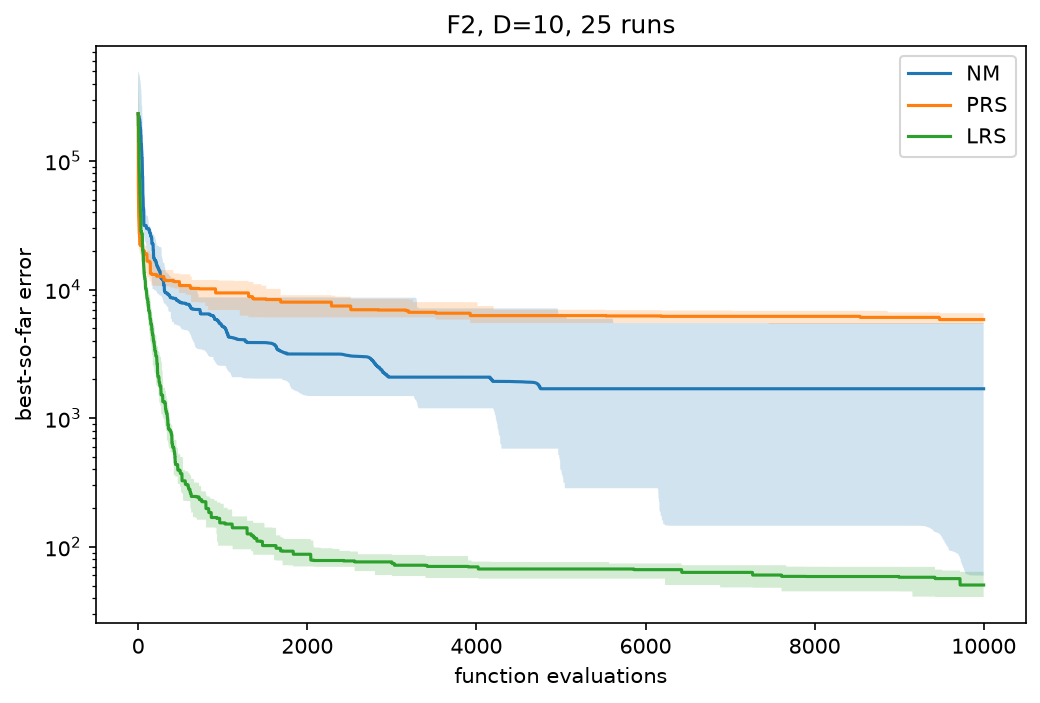
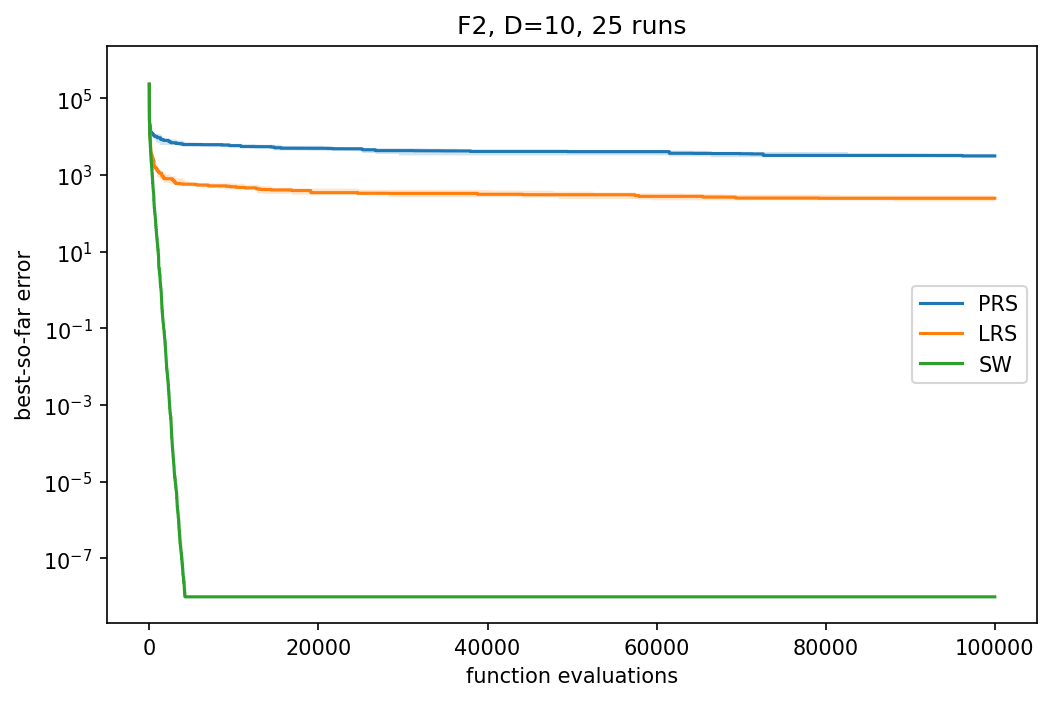
Task 4.2, generate converge image

diff --git a/plot_conv.py b/plot_conv.py
@@ -4,10 +4,10 @@ from cec05 import make_cec05
 
 D, fname = 10, 'F2'           # the function you choose
 F, (lo, hi) = make_cec05(D)
-MAXFE = 1000 * D              # matches your Oracle budget (handout says 10000 for D=10)
+MAXFE = 10000 * D              # matches your Oracle budget (handout says 10000 for D=10)
 
 plt.figure(figsize=(8, 5))
-for alg in ('NM', 'PRS', 'LRS'):
+for alg in ('PRS', 'LRS', 'SW'):
     T = []
     for seed in range(1, 26):
         _, _, tr = run_one(alg, F[fname], D, lo, hi, seed)
